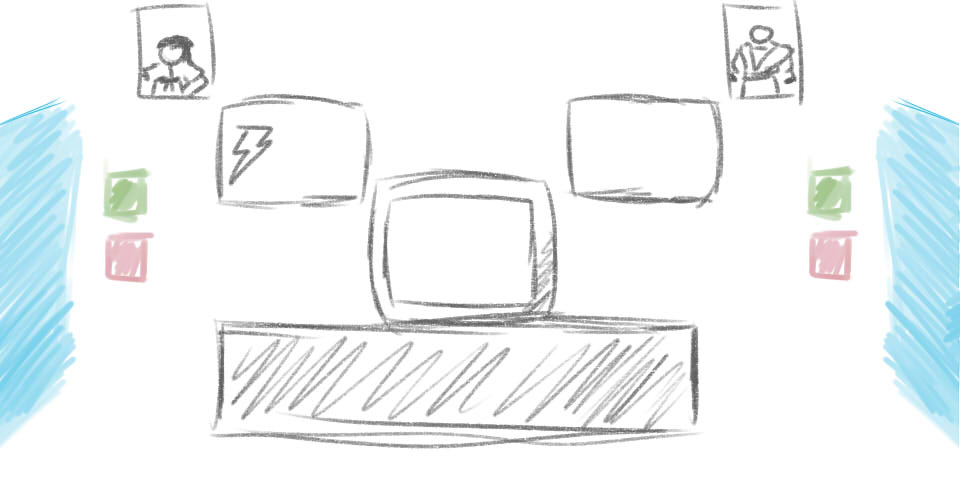
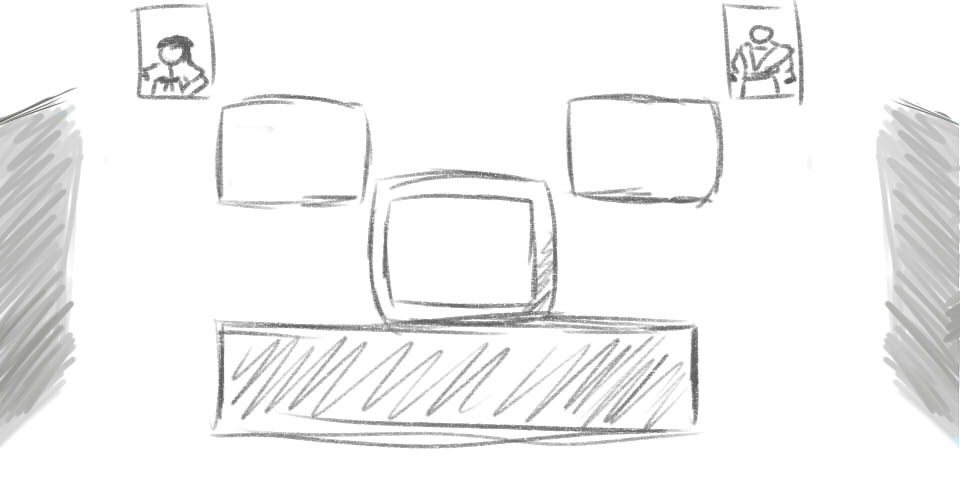
mas assets, flujo de escenas

Changed region(s): [[0.0, 0.1875, 0.1562, 0.9375], [0.8438, 0.2188, 1.0, 0.9062], [0.2188, 0.25, 0.2812, 0.375]]

diff --git a/src/scenes/Preload.js b/src/scenes/Preload.js
@@ -11,6 +11,20 @@ export default class Preload extends Phaser.Scene {
     preload(){
         this.load.image("bMenu","assets/background/bmenu.jpg");
         this.load.image("room","assets/background/bhabitacion.jpg");
+        this.load.image("camera1","assets/background/bcamera1.jpg");
+        this.load.image("camera2","assets/background/bcamera2.jpg");
+        this.load.image("camera3","assets/background/bcamera3.jpg");
+
+        this.load.image("doorButton","assets/background/doorButton.png");
+        this.load.image("lightButton","assets/background/lightButton.png");
+        this.load.image("lelftDoorLight","assets/background/lelftDoorLight.png");
+        this.load.image("rightDoorLight","assets/background/rightDoorLight.png");
+
+        this.load.image("openCameras","assets/background/openCameras.jpg");
+        this.load.image("closeCameras","assets/background/closeCameras.jpg");
+        this.load.image("iEnergy","assets/background/iEnergy.png");
+        this.load.image("iFolder","assets/background/iFolder.png");
+
         this.load.spritesheet("player","assets/sprites/astronautasheet.png",{
             frameWidth: 125,
             frameHeight: 280,  

diff --git a/src/scenes/Cameras.js b/src/scenes/Cameras.js
@@ -1,9 +1,10 @@
 import Phaser from "phaser";
 
 export default class Cameras extends Phaser.Scene {
-    constructor() {
+    constructor(scene) {
       super("camaras");
       this.camerasV = []
+      scene.add.existing(this);
 
       /* cuando se abra la escena cameras el player debe ser seteado inamovible
       de esta manera se parasán las camaras con las mismas flechas de movimiento
@@ -11,6 +12,7 @@ export default class Cameras extends Phaser.Scene {
       el cambio de camras  se podria hacer con una maquina de estados
       usa swich para los diferente casos.
       */
+      this.cursors = scene.input.keyboard.createCursorKeys();
     }
 
 
@@ -18,6 +20,15 @@ export default class Cameras extends Phaser.Scene {
 
     create() {
 
-      this.add.image(320, 240, "cameras");
+      this.add.image(320, 240, "bcamera1");
+      this.add.image(200, 400, "closeCameras").setInteractive()  .on("pointerdown", () => this.scene.switch("game"));
     }
+
+
+
+    /* update() {
+      if (this.input.keyboard.on('keydown-ONE', listener )) {
+        this.add.image(320, 240, "camera1")
+      }
+    } */
 }

diff --git a/src/scenes/Game.js b/src/scenes/Game.js
@@ -20,7 +20,8 @@ export default class Game extends Phaser.Scene {
   
     create(){
         this.add.image(320, 240, "room");
-        this.add.image(320, 500, "cameras").setInteractive()  .on("pointerdown", () => this.scene.launch("cameras"));
+        this.add.image(320, 500, "openCameras").setInteractive()  .on("pointerdown", () => this.scene.launch("cameras"));
+
 
         this.player = new Player(this, 300, 280, 500);
     

diff --git a/src/components/Player.js b/src/components/Player.js
@@ -48,17 +48,16 @@ update(){
 		this.body.velocity(-this.velocity);
 		this.player.anims.play("left", true);
 	  }
-	  
 	  else if (this.cursors.right.isDown) {
 		this.body.velocity(this.velocity);
 		this.player.anims.play("right", true);
 	  }
-	  
 	  else {
 		this.body.velocity(0);
 		this.player.anims.play("turn");
 	  }   
 }
+
 }
 
 
